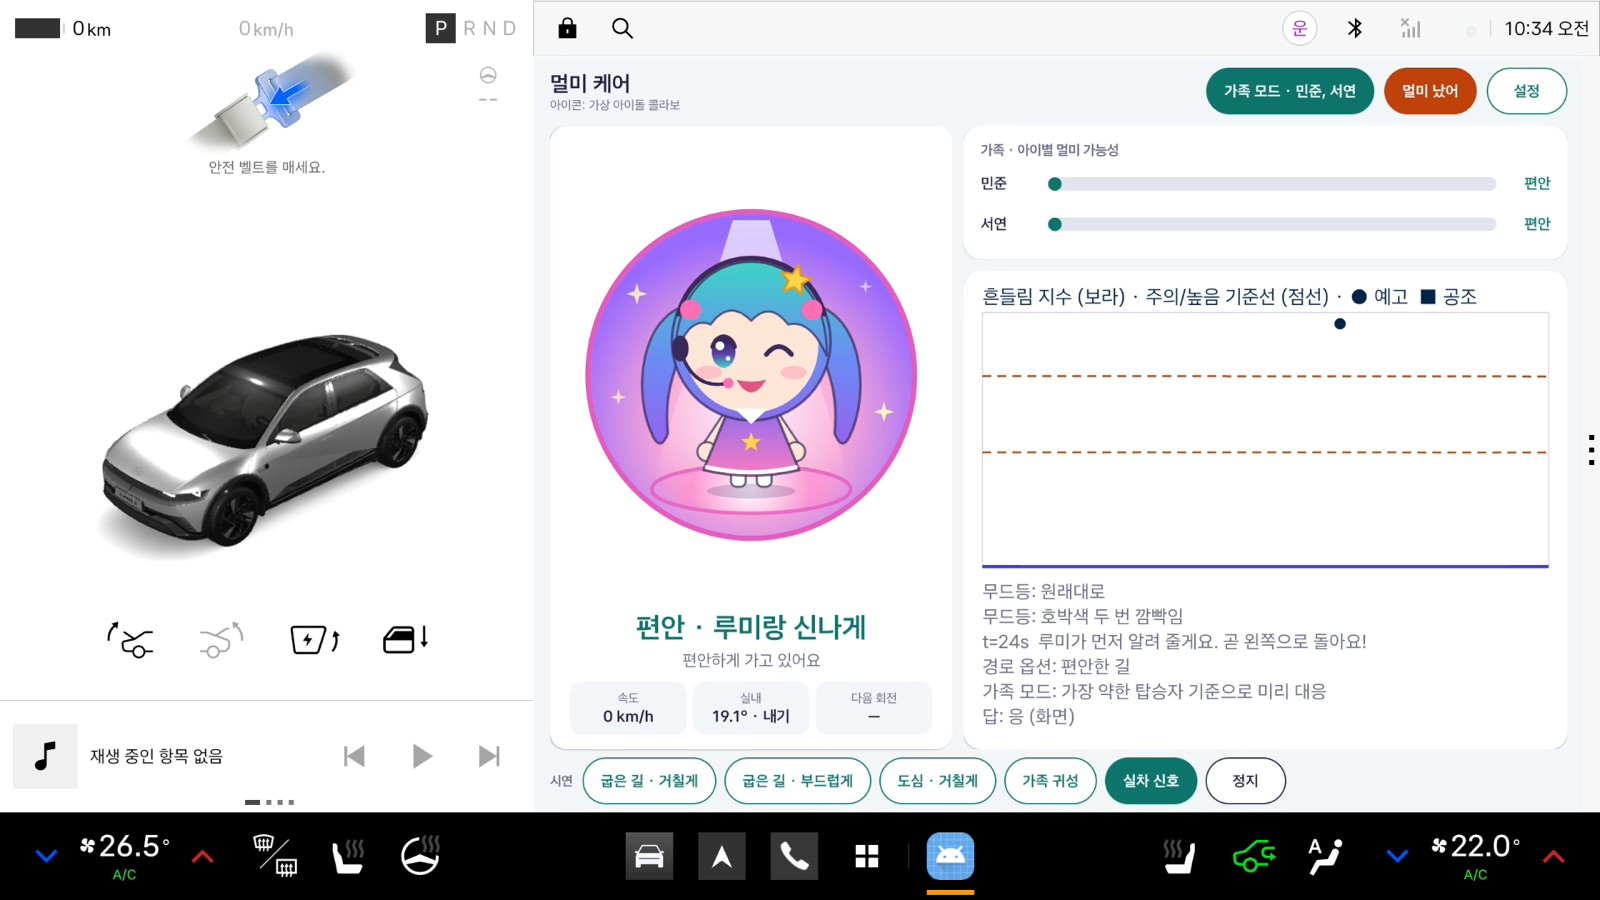
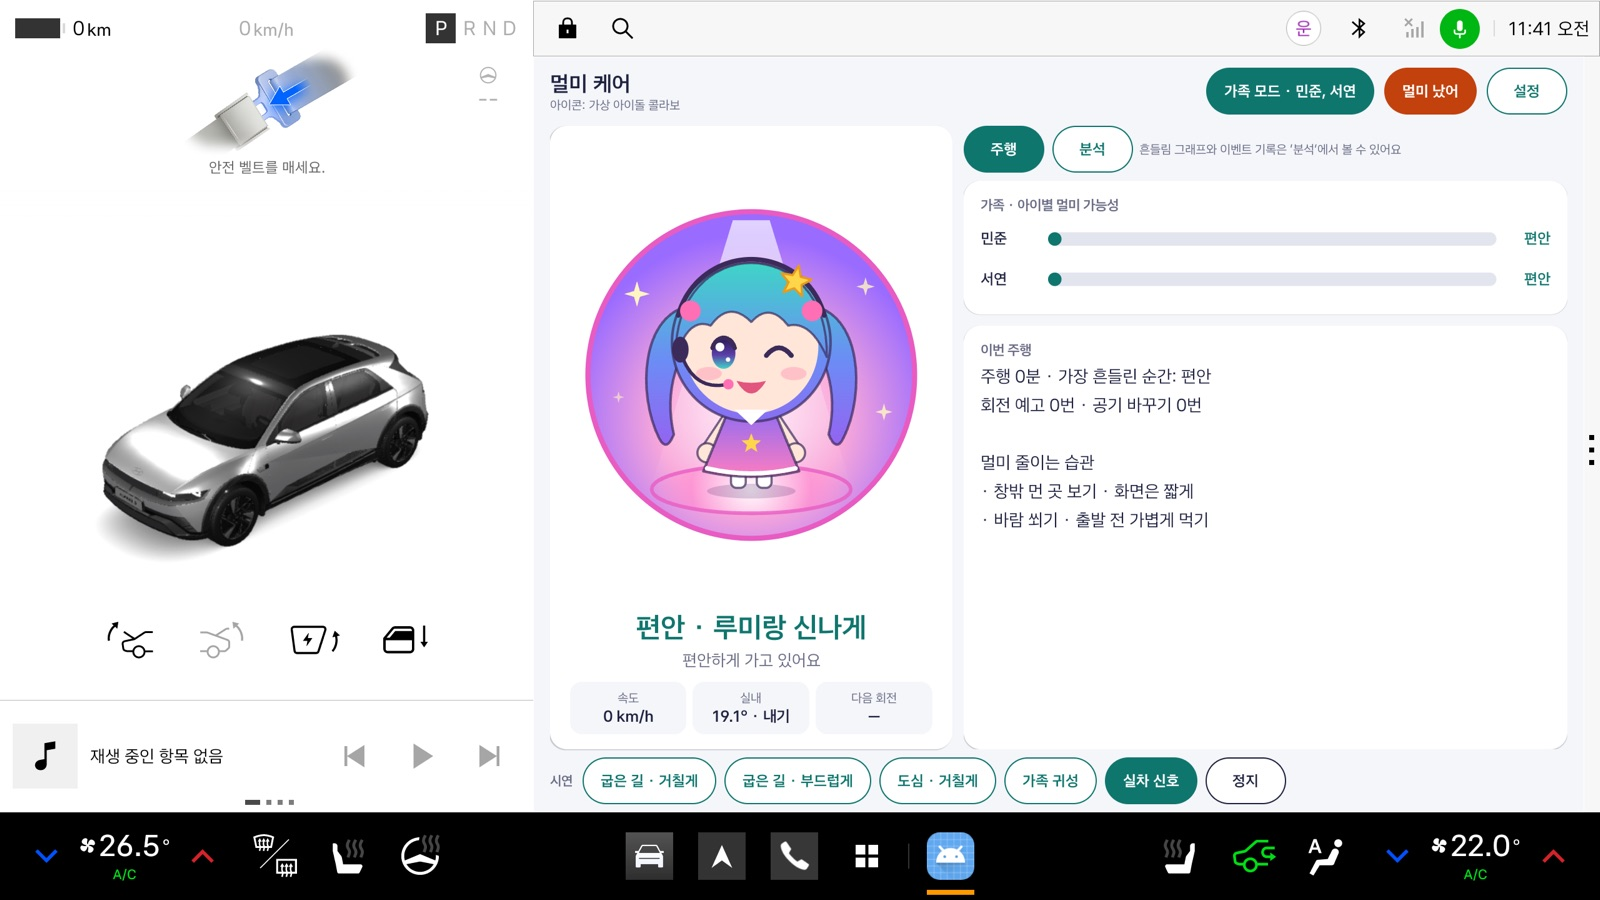
Update README for the service and analysis tab; team name CRAVE
- New screenshots of the default 주행 tab; captions, question flow,
  folder tree, controls, QA table and limits match the code after a
  README-vs-code audit (Pleos heads-up limit, no auto start on boot)
- how_it_works diagram shows the light cue and background service
- Team name CRAVE in README, proposal and submission checklist; the
  release APK copy re-runs when the team name changes

diff --git a/sim/readme_figures.py b/sim/readme_figures.py
@@ -82,14 +82,14 @@ def legend(svg, x, y, items):
 
 
 def how_it_works():
-    s = Svg(960, 420)
+    s = Svg(960, 450)
     cols = [
         (30, "차가 아는 것", "#EEF2FF", "#3730A3",
          ["방향지시등", "내비 다음 회전 거리", "속도 · 진행 방향", "실내 온도 · 내기순환", "뒷좌석 탑승"]),
         (350, "앱이 계산하는 것", "#F5F3FF", "#5B21B6",
          ["흔들림 지수 I (최근 1분)", "누적 흔들림 D", "환경 계수 m (덥고 탁하면 ↓)", "아이별 기준선 τ", "회전까지 남은 시간"]),
         (670, "차가 하는 일", "#ECFDF5", "#065F46",
-         ["\"곧 왼쪽으로 돌아요\" 예고", "외기 전환 · 22°C", "휴게소 경유지 추가", "가족 모드: 약한 아이 기준", "정차 후 한 질문으로 학습"]),
+         ["음성 예고 + 무드등 깜빡임", "외기 전환 · 22°C", "휴게소 경유지 추가", "가족 모드: 약한 아이 기준", "정차 후 한 질문으로 학습"]),
     ]
     for x, title, fill, ink, items in cols:
         s.rect(x, 40, 260, 300, fill, 14)
@@ -105,6 +105,7 @@ def how_it_works():
           f'<path d="M152 350 L160 338 L168 350" fill="{APP}"/>')
     s.text(480, 378, "닫힌 고리: 공조를 바꾸면 실내 온도·환기가 바뀌고, 그 값이 다시 계산에 들어갑니다", 13, APP, "middle")
     s.text(480, 24, "멀미 케어가 하는 일 · Pleos SDK로 차 신호를 읽고 차를 움직입니다", 15, INK, "middle", 700)
+    s.text(480, 432, "판단은 백그라운드 서비스에서 계속 돕니다 · 내비가 앞 화면이어도 음성·무드등·공조로 안내", 13, MUTED, "middle")
     s.save("how_it_works.svg")
 
 

diff --git a/README.md b/README.md
@@ -2,7 +2,7 @@
 
 [![CI](https://github.com/toowani/motion-care/actions/workflows/ci.yml/badge.svg)](https://github.com/toowani/motion-care/actions/workflows/ci.yml)
 
-> Pleos Connect 차량앱 공모전 출품작 ④ · 1인 개발 (팀원)
+> Pleos Connect 차량앱 공모전 출품작 ④ · 팀 CRAVE (1인 개발, 팀원)
 
 **운전자는 왜 멀미를 덜 할까요?** 다음 움직임을 알고 있기 때문입니다. 동승자는 예고 없이 흔들리고, 몸이 느끼는 움직임과 예상이 어긋나면서 멀미가 납니다.
 
@@ -16,9 +16,9 @@
 
 ![아이콘 테마 4종: 깔끔한 기본, 말랑 3D 친구, 애니메이션 친구, 가상 아이돌 콜라보 — 편안·주의·위험](docs/img/theme_gallery.jpg)
 
-![가족 모드에서 위험 상태: 아이별 막대와 흔들림 그래프](docs/img/ui_6_family_high.jpg)
+![가족 모드에서 위험 상태: 아이별 막대와 이번 주행 요약](docs/img/ui_6_family_high.jpg)
 
-*Pleos Connect 에뮬레이터에서 실제로 실행한 화면입니다. 왼쪽은 차량 화면, 오른쪽이 멀미 케어입니다. 굽은 길에서 흔들림이 기준(점선)을 넘자 아이콘이 "위험 · 같이 쉬어 가요"로 바뀌고, 멀미를 잘하는 민준의 막대가 먼저 "위험"에 닿았습니다. 앱은 이미 공조를 22°C·외기로 바꿨습니다.*
+*Pleos Connect 에뮬레이터에서 실제로 실행한 화면입니다. 왼쪽은 차량 화면, 오른쪽이 멀미 케어의 기본 화면("주행" 탭)입니다. 굽은 길에서 흔들림이 커지자 아이콘이 "위험 · 같이 쉬어 가요"로 바뀌었고, 멀미를 잘하는 민준의 막대가 서연보다 먼저 올라가 아이콘 아래에 "민준 기준으로 먼저 대응해요"가 떴습니다. 앱은 이미 공조를 22°C·외기로 바꿨습니다(아래 공조 바). 흔들림 그래프는 "분석" 탭에서 봅니다.*
 
 ---
 
@@ -44,9 +44,9 @@
 | 읽기 | Vehicle (방향지시등·공조·좌석), NaviHelper, CarPropertyManager, 위치 | 1초마다 속도·진행 방향·방향지시등·다음 회전 거리·실내 온도·내기순환·뒷좌석 탑승을 받음 |
 | 계산 | (SDK와 분리된 순수 Kotlin 엔진) | 앞뒤·옆 가속도 → 느린 흔들림만 남김 → 흔들림 지수 I와 누적량 D → 환경 계수 m과 아이별 기준선으로 판단 |
 | 행동 | TextToSpeech, Vehicle HVAC · Light, NaviHelper | 예고·안내 음성, 무드등 예고, 외기 전환·온도 설정, 휴게소 경유지 추가 |
-| 묻기 | SpeechToText (안 되면 화면 버튼) | "휴게소에 들를까요?", "가족 모드를 켤까요?", 정차 후 "오늘 민준 괜찮았어요?" |
+| 묻기 | SpeechToText + 화면 버튼 (앱이 안 보이면 답 버튼이 달린 알림 카드) | "휴게소에 들를까요?", "가족 모드를 켤까요?"(음성·버튼 중 먼저 온 답), 정차 후 "오늘 민준 괜찮았어요?"(버튼) |
 
-**운전자는 화면을 보지 않아도 됩니다.** 안내는 음성과 무드등으로 하고, 화면에는 큰 표정 아이콘과 고정된 단계 단어(편안 · 주의 · 위험), 차가 방금 한 일 한 줄만 둡니다. 질문은 시스템 대화상자 대신 홈 화면 안의 큰 버튼으로 묻고, 주행 중에는 테마·프로필 변경을 잠급니다(Car UX Restrictions). 흔들림 그래프와 이벤트 기록은 **"분석" 탭**으로 옮겨, 주행 중 기본 화면에는 보이지 않습니다. 시나리오 재생 버튼은 시연 패널이며 설정에서 끌 수 있습니다.
+**운전자는 화면을 보지 않아도 됩니다.** 안내는 음성과 무드등으로 합니다. 화면 왼쪽에는 큰 표정 아이콘, 고정된 단계 단어(편안 · 주의 · 위험), 차가 방금 한 일 한 줄과 속도·실내·다음 회전만 두고, 오른쪽 "주행" 탭에는 아이별 멀미 가능성 막대(가족 모드)와 "이번 주행" 요약을 둡니다. 질문은 시스템 대화상자 대신 홈 화면 안의 큰 버튼으로 묻고, 주행 중에는 테마·프로필 변경을 잠급니다(Car UX Restrictions). 흔들림 그래프와 이벤트 기록은 **"분석" 탭**으로 옮겨, 주행 중 기본 화면에는 보이지 않습니다. 시나리오 재생 버튼은 시연 패널이며 설정에서 끌 수 있습니다.
 
 **내비가 앞 화면이어도 계속 동작합니다.** 판단과 행동은 포그라운드 서비스(`TripService`)에서 돌기 때문에, 내비를 띄워 둔 채로도 회전 예고·무드등·공조·가족 대응·휴게소 질문이 그대로 일어납니다 (에뮬레이터에서 내비를 앞에 둔 채 확인). 앱 화면이 보이지 않을 때 생긴 질문과 사건은 표준 알림 카드(헤드업 알림)로 보내고, 앱으로 돌아오면 그동안의 주행 기록과 대기 중인 질문을 화면에 이어서 보여 줍니다.
 
@@ -87,7 +87,7 @@
 
 ![방향지시등을 켜자 루미가 "곧 왼쪽으로 돌아요"](docs/img/ui_3_turn_cue.jpg)
 
-왼쪽 방향지시등을 켜자 "루미가 먼저 알려 줄게요. 곧 왼쪽으로 돌아요!"(이벤트 기록)와 함께 **실내 무드등이 호박색으로 두 번 깜빡입니다** (차량 로그에서 색 (255, 160, 0), 밝기 100% → 0% → 100% → 원래대로 확인). 무드등 구역이 좌우로 나뉜 차에서는 도는 쪽만 켜집니다. 화면 위 카메라 창은 방향지시등에 반응한 차량 자체의 사각지대 카메라입니다. 내비 경로가 있으면 다음 회전까지 거리와 속도로 같은 예고를 합니다 (회전까지 약 5초 남았을 때).
+왼쪽 방향지시등을 켜자 "루미가 먼저 알려 줄게요. 곧 왼쪽으로 돌아요!"라는 음성과 함께 **실내 무드등이 호박색으로 두 번 깜빡입니다** (차량 로그에서 색 (255, 160, 0), 밝기 100% → 0% → 100% → 원래대로 확인). 무드등 구역이 좌우로 나뉜 차에서는 도는 쪽만 켜집니다. 화면 위 카메라 창은 방향지시등에 반응한 차량 자체의 사각지대 카메라입니다. 이 창이 뜨면 멀미 케어 화면은 뒤로 가므로, 이 순간의 안내는 화면 대신 음성과 무드등으로 전달됩니다 (예고 문구는 "분석" 탭의 이벤트 기록에 남습니다). 내비 경로가 있으면 다음 회전까지 거리와 속도로 같은 예고를 합니다 (회전까지 약 5초 남았을 때).
 
 ### ④ 흔들림이 커지면 차가 공기를 바꿈
 
@@ -95,13 +95,13 @@
 |---|---|
 | ![출발: 공조 26.5°C, 내기순환](docs/img/ui_4_before.jpg) | ![공조를 외기·22°C로 바꾼 뒤](docs/img/ui_5_fresh_air.jpg) |
 
-굽은 길을 거칠게 달리는 시나리오입니다. 지수가 기준을 넘자 아이콘이 "주의 · 루미가 걱정해"로 바뀌고, 앱이 Vehicle SDK로 **내기순환을 끄고 22°C로 설정**했습니다 (아래 공조 바 왼쪽 26.5° → 22.0°, 오른쪽 내기순환 아이콘 초록 → 흰색). 그래프의 주황 점선(기준선)이 오른쪽으로 갈수록 올라가는 것이 **닫힌 고리**입니다. 실내가 시원해지고 환기되면 같은 흔들림에도 멀미가 덜 나므로 기준이 다시 높아집니다.
+굽은 길을 거칠게 달리는 시나리오입니다. 흔들림이 기준을 넘자 앱이 Vehicle SDK로 **내기순환을 끄고 22°C로 설정**했고, 아이콘 아래에 "바깥 공기로 바꾸고 22°C로 맞췄어요"가 떴습니다 (아래 공조 바 왼쪽 26.5° → 22.0°, 오른쪽 내기순환 아이콘 초록 → 흰색). "분석" 탭 그래프의 주황 점선(기준선)이 오른쪽으로 갈수록 올라가는 것이 **닫힌 고리**입니다 (⑧). 실내가 시원해지고 환기되면 같은 흔들림에도 멀미가 덜 나므로 기준이 다시 높아집니다.
 
 ### ⑤ 가족 모드: 가장 약한 아이 기준으로 먼저
 
-![가족 모드: 민준 막대가 먼저 위험](docs/img/ui_6_family_high.jpg)
+![가족 모드: 민준 막대가 먼저 올라감](docs/img/ui_6_family_high.jpg)
 
-오른쪽 위 가족 카드에 아이별 멀미 가능성이 막대로 보입니다. 기준선이 낮은 민준이 먼저 "위험"에 닿자 "민준에게는 벌써 흔들림이 많아요. 바람 넣고 천천히 갈게요."라고 말하고, 아이콘 아래에 "민준 기준으로 먼저 대응해요"가 뜹니다.
+오른쪽 위 가족 카드에 아이별 멀미 가능성이 막대로 보입니다. 기준선이 낮은 민준의 막대가 서연보다 먼저 올라가 기준선에 닿자 "민준에게는 벌써 흔들림이 많아요. 바람 넣고 천천히 갈게요."라고 말하고, 아이콘 아래에 "민준 기준으로 먼저 대응해요"가 뜹니다.
 
 ### ⑥ 흔들림이 계속되면 휴게소 제안
 
@@ -115,19 +115,21 @@
 |---|---|
 | ![오늘 민준 괜찮았어요?](docs/img/ui_7_post_trip.jpg) | ![기준선 갱신](docs/img/ui_8_learned.jpg) |
 
-시연에서는 "정지"를 누르면, 실제 주행에서는 **차가 1분 동안 서 있으면** 주행이 끝난 것으로 보고 묻습니다. 답과 이번 주행의 누적 흔들림으로 아이별 기준선을 고칩니다 (이벤트 기록 맨 위 "기준선 갱신"). 주행 중에는 "멀미 났어"를 눌러 누가 멀미가 나는지 고를 수 있습니다. 프로필은 차량 기기에만 저장합니다.
+시연에서는 "정지"를 누르면, 실제 주행에서는 **차가 1분 동안 서 있으면** 주행이 끝난 것으로 보고 묻습니다. 답과 이번 주행의 누적 흔들림으로 아이별 기준선을 고칩니다 (이벤트 기록 맨 위 "기준선 갱신"). 주행 중에는 "멀미 났어"를 누르면 그 순간을 기록합니다 (아이가 여럿이면 누구인지 먼저 고릅니다). 프로필은 차량 기기에만 저장합니다.
 
 ### ⑧ 분석 탭: 흔들림 그래프와 이벤트 기록
 
 ![분석 탭: 흔들림 지수, 기준선, 예고·공조 표시와 이벤트 기록](docs/img/ui_11_analysis.jpg)
 
+기본 화면("주행" 탭)에는 가족 막대와 주행 요약만 두고, 흔들림 지수 그래프와 이벤트 기록은 "분석" 탭에서 봅니다. 위 화면은 내비를 앞에 둔 채 굽은 길 시나리오를 돌린 뒤 앱으로 돌아온 모습입니다. 그동안의 그래프가 이어지고, 대기 중이던 휴게소 질문이 화면 안 버튼으로 옮겨 왔습니다.
+
+### ⑨ 내비가 앞에 있을 때: 알림 카드
+
 ![내비를 앞에 둔 동안 질문이 알림 카드로: 응 / 아니 버튼](docs/img/ui_12_card.jpg)
 
-*내비를 앞에 둔 동안 생긴 "가족 모드를 켤까요?" 질문은 알림 카드(응 / 아니 버튼)로 갑니다. Pleos에서는 지도 위로 뜨지 않고 알림 센터에 쌓이며, 카드에서 "응"을 누르면 가족 모드가 켜지는 것까지 확인했습니다.*
+내비를 앞에 둔 동안 생긴 "가족 모드를 켤까요?" 질문은 알림 카드(응 / 아니 버튼)로 갑니다. Pleos에서는 지도 위로 뜨지 않고 알림 센터에 쌓이며, 카드에서 "응"을 누르면 가족 모드가 켜지는 것까지 확인했습니다. 앱으로 돌아오면 같은 질문이 다시 화면 버튼으로 바뀝니다.
 
-주행 중 기본 화면("주행" 탭)에는 가족 막대와 주행 요약만 두고, 흔들림 지수 그래프와 이벤트 기록은 "분석" 탭에서 봅니다. 위 화면은 내비를 앞에 둔 채 굽은 길 시나리오를 돌린 뒤 앱으로 돌아온 모습입니다. 그동안의 그래프가 이어지고, 대기 중이던 휴게소 질문이 화면 안 버튼으로 옮겨 왔습니다.
-
-### ⑨ 설정 한 곳에서
+### ⑩ 설정 한 곳에서
 
 ![설정: 안내 방식 스위치와 가족 프로필](docs/img/ui_9_settings.jpg)
 
@@ -148,7 +150,7 @@
 | 휴게소 경유지 | 폰 내비 안에서만 | 차량 내비에 바로 추가 |
 | 빛으로 예고 | 불가 | 회전 직전 실내 무드등 깜빡임 (어린아이용) |
 | 덜 흔들리는 길 | 폰 내비 안에서만 | 가족 모드에서 차량 내비 경로 옵션을 "편안한 길"로 |
-| 매 주행 실행 | 사람이 켜야 함 | 시동과 함께, 뒷좌석 탑승으로 가족 모드 제안 |
+| 매 주행 실행 | 사람이 켜야 함 | 앱을 열면 바로 차 신호를 따라가고 내비로 바꿔도 계속 동작, 뒷좌석 탑승으로 가족 모드 제안 (시동과 함께 자동 실행은 정식 탑재 때 과제) |
 
 비슷한 서비스(Apple Vehicle Motion Cues, 현대차 스무스 모드 등)와의 비교는 [기획서 4절](docs/proposal.md)과 [research/market.md](research/market.md)에 있습니다.
 
@@ -208,8 +210,12 @@
 | 휴게소 경유지 | 내비 앱에 경유지 요청 도착 |
 | 위치 기반 속도 | 시나리오 좌표를 GPS로 넣어 42 km/h 표시, 지수 상승 |
 | 내비 다음 회전 | 경로 요청 후 "왼쪽 80 m" 수신 |
+| 무드등 예고 | 색 (255, 160, 0)·밝기 100% → 0% → 100% → 원래 색·밝기 (차량 로그) |
+| 내비를 앞에 둔 채 동작 | 위치 유형 포그라운드 서비스에서 공조·가족 경고·휴게소 질문이 그대로 일어남 |
+| 질문이 알림 카드로 | 내비로 바꾸면 화면 질문이 응/아니 카드로, 알림 센터에서 "응" → 가족 모드 켜짐 |
+| 돌아오면 이어서 | 그동안의 그래프·기록과 대기 중인 질문이 화면으로 돌아옴 |
 
-확인하면서 버그 6개를 고쳤습니다. 내비 권한 누락, 좌석 리스너가 마지막 좌석만 받던 문제, 에뮬레이터 GPS가 속도·방향을 0으로 보내는 문제, GPS 점프, 공조 안내 반복, 화면 밖으로 밀린 버튼입니다. 자세한 기록은 [docs/qa.md](docs/qa.md)에 있습니다.
+확인하면서 처음에 버그 6개를 고쳤습니다. 내비 권한 누락, 좌석 리스너가 마지막 좌석만 받던 문제, 에뮬레이터 GPS가 속도·방향을 0으로 보내는 문제, GPS 점프, 공조 안내 반복, 화면 밖으로 밀린 버튼입니다. 이후 화면 개편과 백그라운드 서비스 전환 때는 여러 관점의 리뷰와 반박 검증을 거쳐 권한 재시작, 질문 유실, 주행 중 설정 잠금 등을 고쳤습니다. 자세한 기록은 [docs/qa.md](docs/qa.md)에 있습니다.
 
 ---
 
@@ -265,6 +271,8 @@ $$
 - 실제 주행 비교는 고속도로 1분 한 구간뿐이고, 직선이라 옆 흔들림은 비교하지 못했습니다.
 - 휴게소 좌표는 데모용 3곳입니다. NaviHelper에 POI 검색이 없어 실제 서비스에서는 별도 POI API가 필요합니다.
 - 에뮬레이터에서 지도 타일이 표시되지 않아, 경유지 추가는 내비 앱의 요청 수신 로그로 확인했습니다.
+- Pleos 홈은 시스템 앱 알림만 지도 위에 헤드업으로 띄워, 내비를 앞에 둔 동안의 질문 카드는 알림 센터로만 갑니다. 그동안은 음성과 무드등이 주된 안내이고, 홈의 MiniApp 영역에 올릴 수 있는지는 에뮬레이터에서 확인하지 못했습니다.
+- 앱은 한 번 열어야 서비스가 시작됩니다. 시동과 함께 자동 실행은 정식 탑재 때 Pleos 정책에 맞춰 붙일 부분입니다.
 
 ---
 
@@ -273,8 +281,11 @@ $$
 ```
 android/
   core/            순수 Kotlin 판단 엔진 + 단위 테스트 (파이썬과 숫자 일치)
-  app/             Android Automotive 앱: 신호 읽기, 공조·무드등·음성·내비
-    ui/            홈 화면, 설정 화면
+  app/             Android Automotive 앱
+                   TripService: 주행 판단과 행동 (신호 읽기, 공조·무드등·음성·내비, 내비가 앞이어도 계속)
+                   Notifier: 앱이 안 보일 때의 알림 카드와 질문 카드
+                   MainActivity: 화면만 (서비스에 붙어 보여 줌)
+    ui/            홈 화면 ("주행" · "분석" 탭), 설정 화면
     theme/         멀미 지수 아이콘 테마 4종 (Canvas로 그림, 이미지 파일 없음)
 sim/
   generator.py     시나리오 생성: 도로 곡률 → 속도 → 가속도 → CSV
@@ -283,12 +294,17 @@ sim/
   public_check.py  실제 주행 데이터(comma2k19) 비교
   readme_figures.py  이 README의 그래프 (docs/img/*.svg)
   feed_geo.py      시나리오 좌표를 에뮬레이터 GPS로 재생
+  import_ride.py   폰 GPS 동승 기록(GPX/CSV) → 엔진 결과
+  ride_report.py   동승 결과와 설문 점수 비교 (산점도·상관계수)
   to_gpx.py        시나리오 → GPX
 shared/
   params.json      가중치·기준선·환경 계수 (파이썬과 앱이 같이 읽음)
   test_vectors.csv 파이썬이 계산한 정답 → Kotlin 테스트
 docs/              기획서 초안, 검증, 에뮬레이터 확인 기록, 시연 콘티, 이미지
 research/          문헌 근거, 경쟁 서비스 조사
+data/rides/        동승 기록 원본 (로컬 전용, 커밋 안 함)
+apk/               제출용 release APK (CRAVE_MotionCare_release.apk, 제출 때만 커밋)
+.github/workflows/ci.yml   CI: 시뮬레이터 점검 + 테스트 벡터 + Kotlin 테스트 + 디버그 빌드
 ```
 
 ### 시뮬레이션과 그래프 (파이썬 3, 외부 라이브러리 없음)
@@ -326,7 +342,7 @@ cd android && JAVA_HOME="/Applications/Android Studio.app/Contents/jbr/Contents/
 nohup ~/Library/Android/sdk/emulator/emulator -avd Pleos_Connect_v2_1 -no-snapshot-load > /tmp/emu.log 2>&1 &
 ```
 
-화면 위쪽: "가족 모드", "멀미 났어"(누가 멀미가 나는지 고르면 기록), "설정". 아래쪽 시연 패널: 시나리오 4배속 재생, "실차 신호"(에뮬레이터 신호, 앱을 켜면 자동으로 시작), "정지"(정차 후 질문). 디버그 빌드는 `--es theme toon --ez skip_welcome true`로 테마를 고르고 환영 화면을 건너뛸 수 있습니다.
+화면 위쪽: "가족 모드", "멀미 났어"(아이가 여럿이면 누구인지 고른 뒤 기록), "설정". 오른쪽 위 탭: "주행"(가족 막대·주행 요약, 기본), "분석"(흔들림 그래프·이벤트 기록). 아래쪽 시연 패널: 시나리오 4배속 재생, "실차 신호"(앱을 켜면 자동으로 시작), "정지"(시연 주행을 끝내고, 가족 모드면 정차 후 질문을 한 뒤 다시 차 신호를 따라감). 실제 주행에는 정지 버튼이 없고 차가 1분 서 있으면 저절로 끝나고 묻습니다. 디버그 빌드는 `--es theme toon --ez skip_welcome true`로 테마를 고르고 환영 화면을 건너뛸 수 있습니다.
 
 ### 키와 서명 (각자 `android/local.properties`, 커밋 금지)
 
@@ -370,4 +386,5 @@ Android Studio 2026.2 · AGP 9.4.1 · Gradle 9.8.2 · Kotlin 2.4 · compileSdk 3
 
 - **실제 동승 데이터 5–10회**: 예측한 흔들림과 실제 멀미 점수가 맞는지 확인 ([docs/ride-study.md](docs/ride-study.md))
 - 내비 경로를 따라 주행할 때 회전 예고, "편안한 길"로 경로가 바뀌는지 확인 (에뮬레이터 내비 서버 연결이 끊겨 보류)
-- 시연 영상 v2(72초, 자막, 소리 없음)에 내레이션 입히기, 팀명 확정(APK 이름), 기획서를 접수 양식으로 옮기기
+- 시연 영상에 내비와 함께 동작하는 장면 넣기와 내레이션 입히기 (v2는 72초·자막·소리 없음, 분석 탭 이전 화면)
+- 기획서를 접수 양식으로 옮기기 (팀명 CRAVE, APK `apk/CRAVE_MotionCare_release.apk` 빌드·서명 확인)

diff --git a/docs/proposal.md b/docs/proposal.md
@@ -120,7 +120,7 @@
 
 ## 10. 팀과 역할
 
-**[팀명]** · 1인 팀 (팀원)
+**CRAVE** · 1인 팀 (팀원)
 
 | 역할 | 맡은 일 |
 |---|---|
